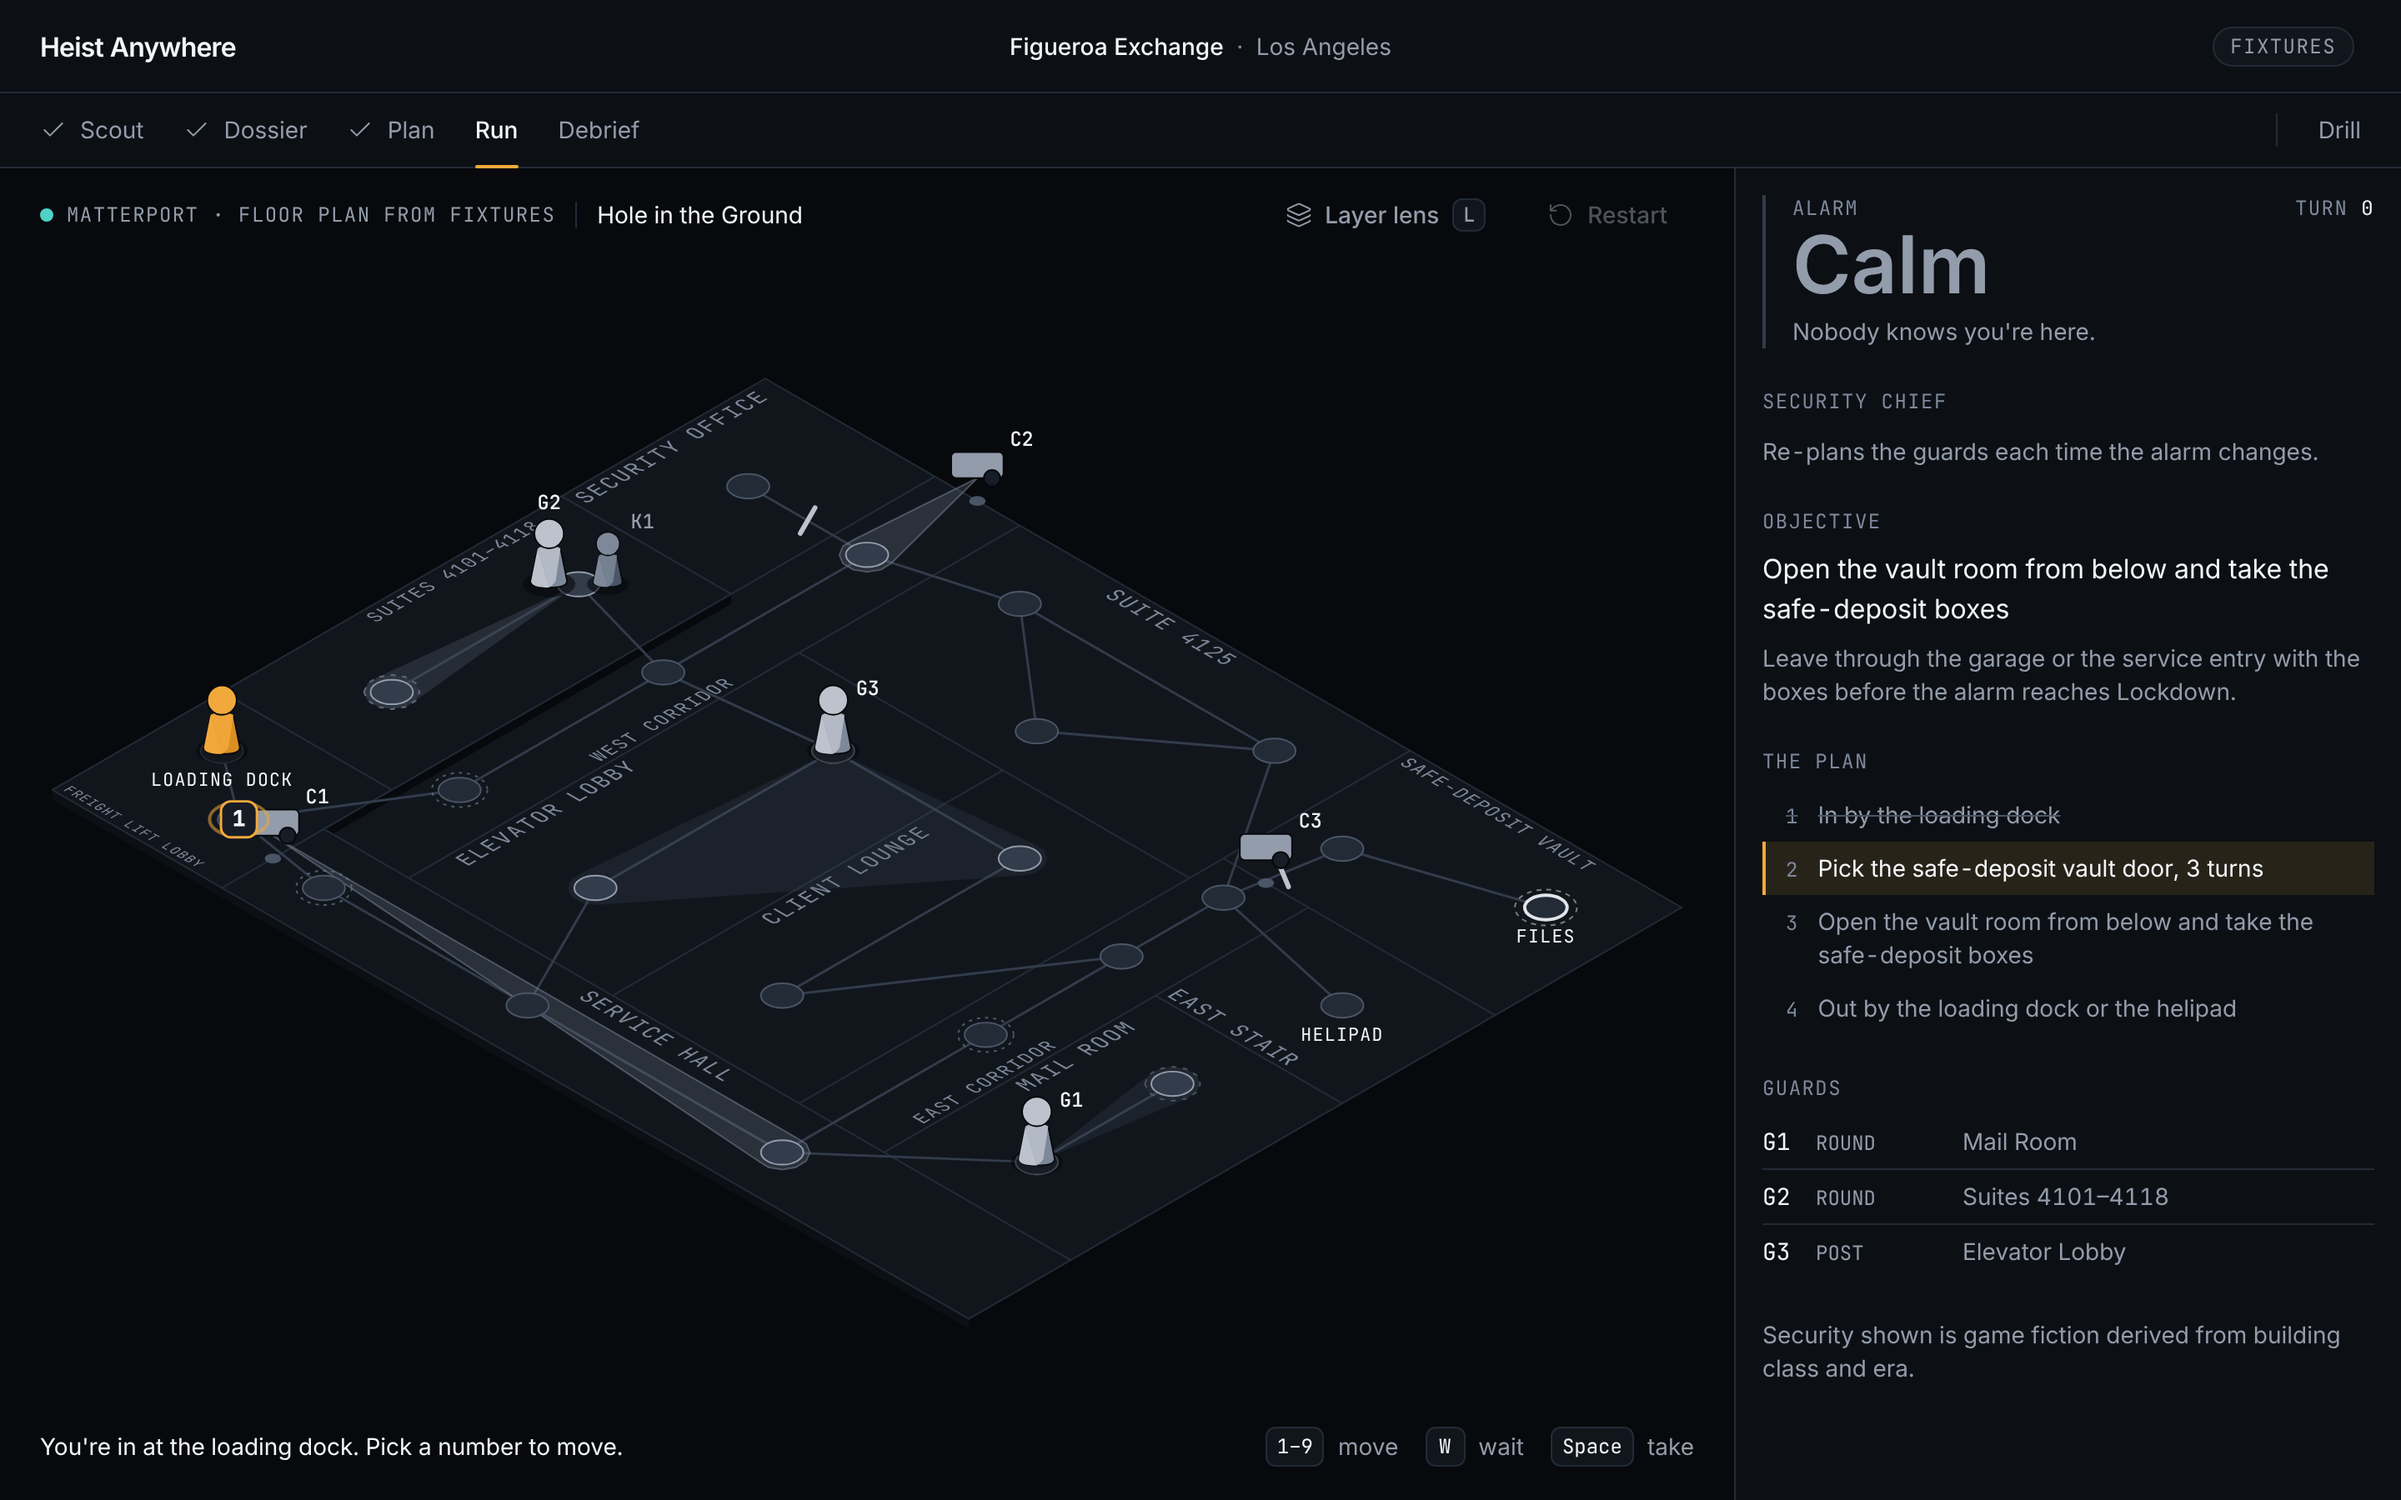
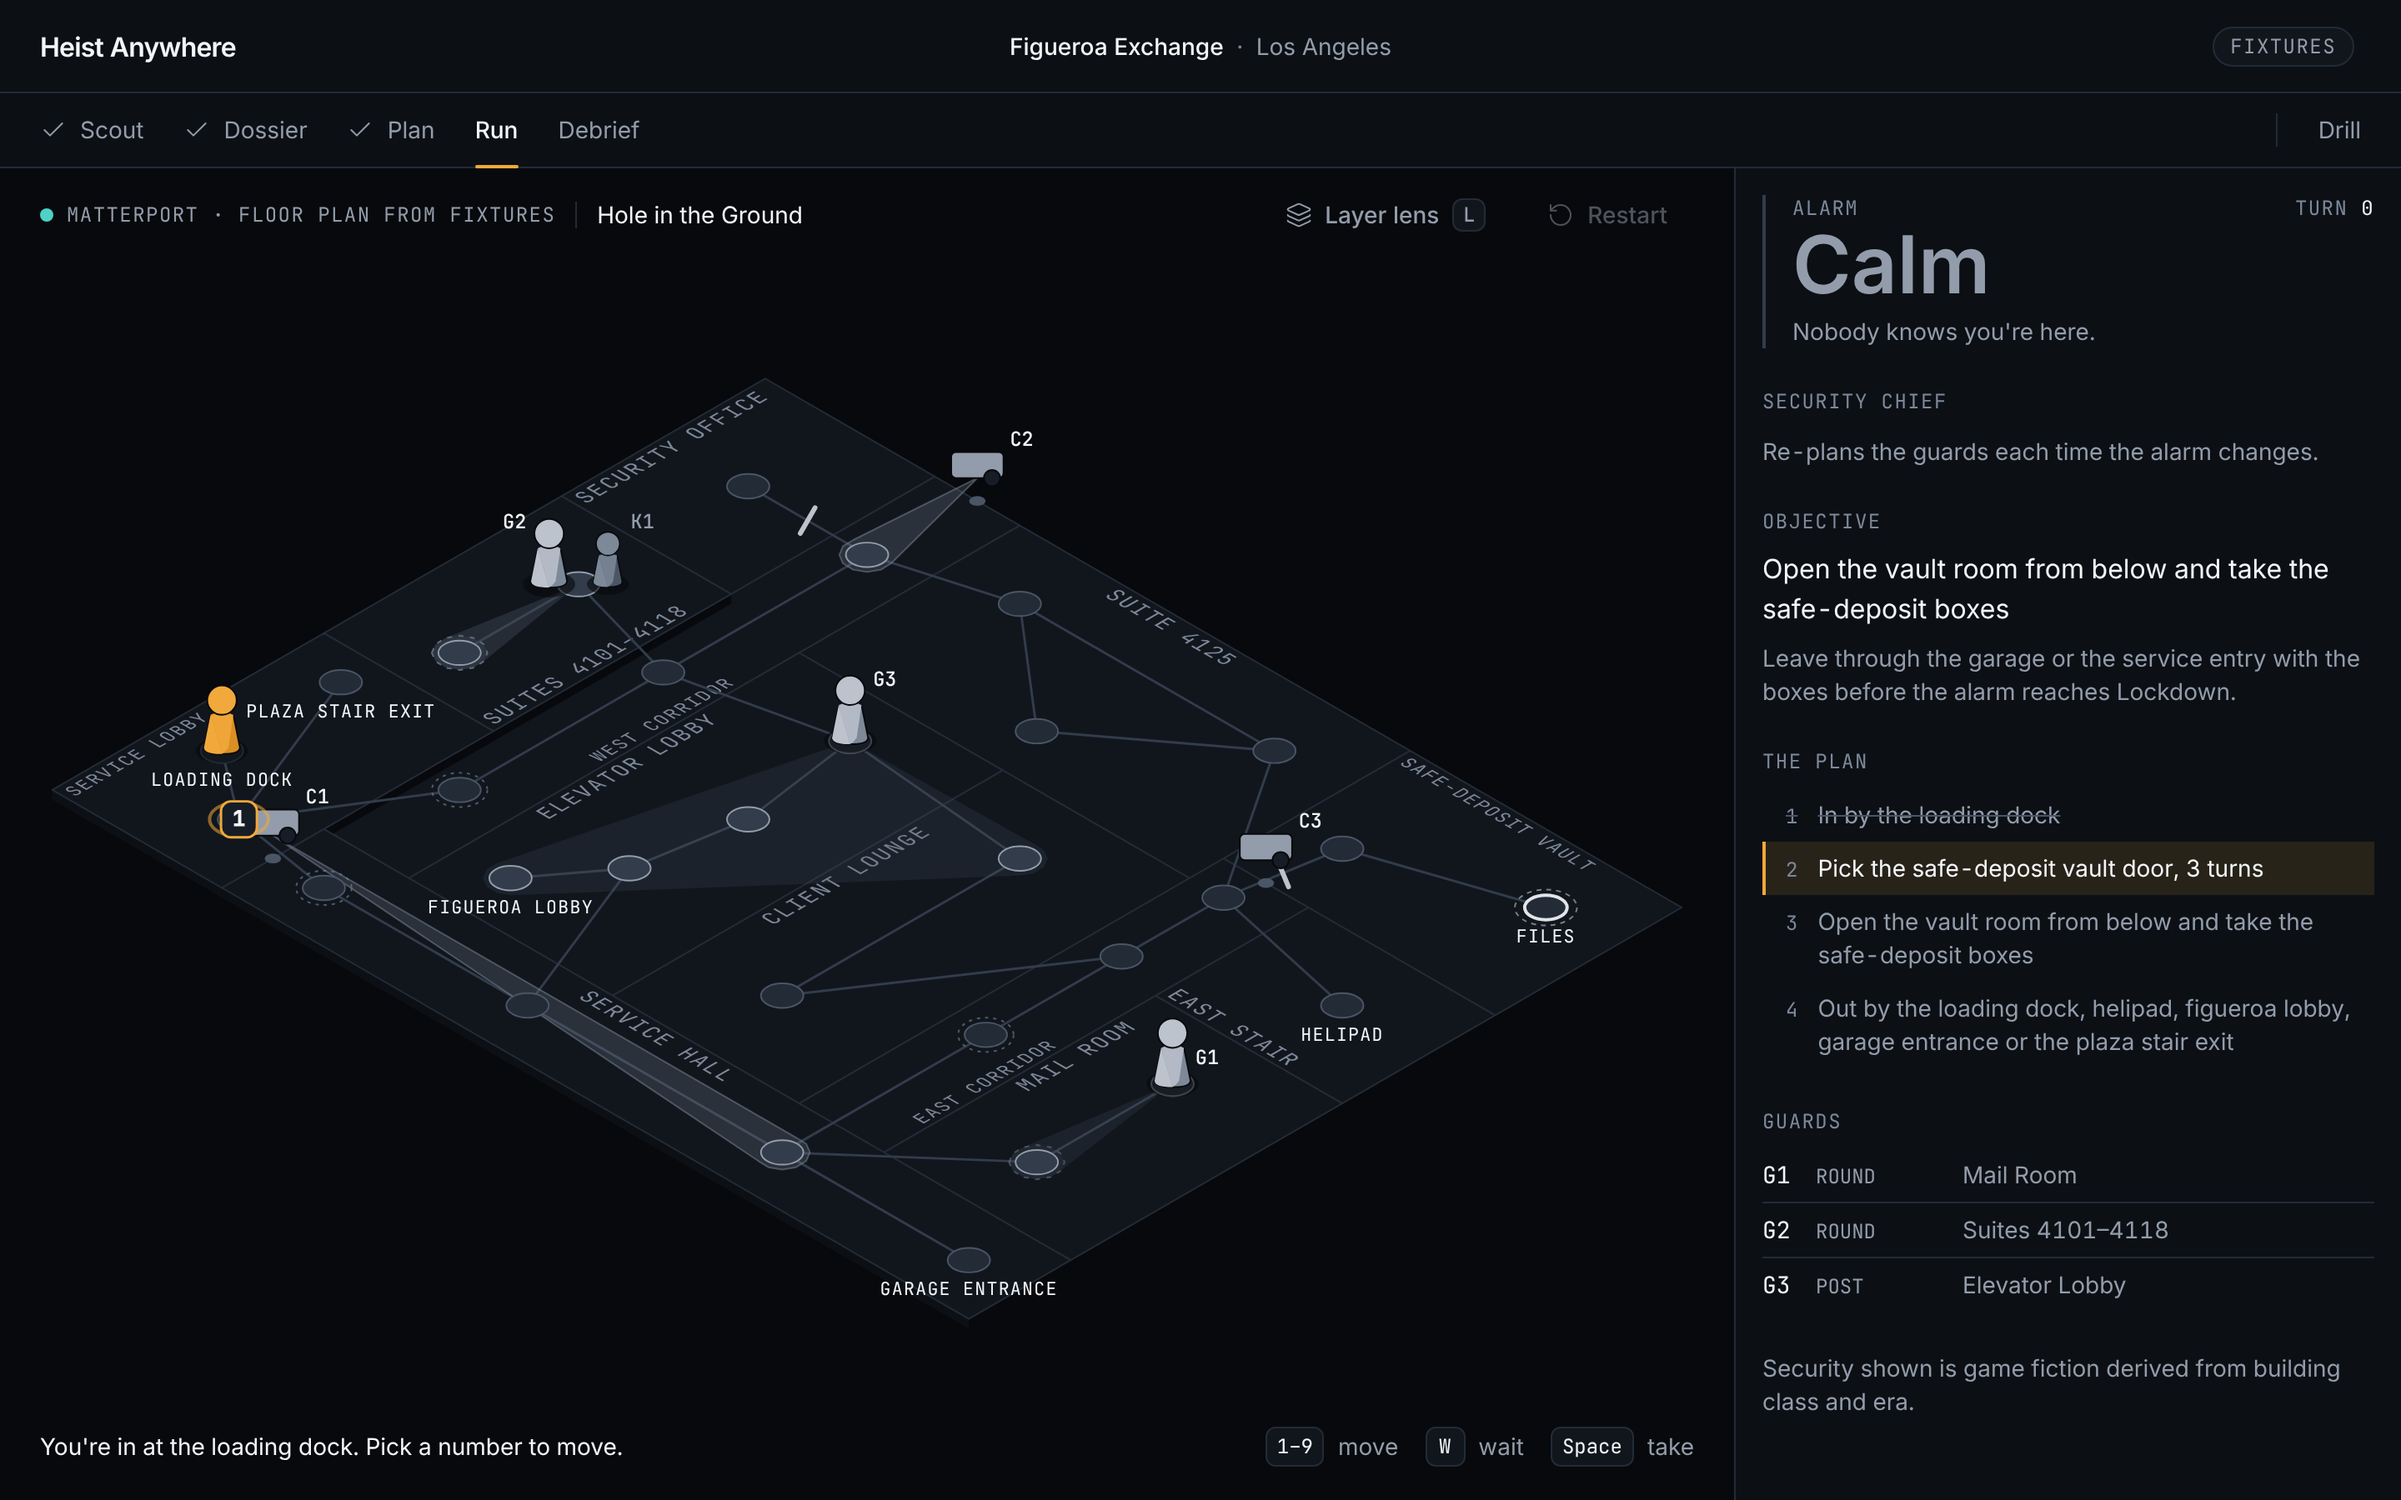
fix(fixtures): make F2 and F3 say only what can be played
night-desk becomes a take-and-exit prevent mission: get the prototype out
before the hired crew reaches it, by the service lift or the east stair.
F2's floor now carries the aerial's lobby, garage and plaza stair entries,
so every exit the mission, briefing and crew name is placed. Levels
regenerated. Tests hold the named exits to the placement and each
recorded rationale's positions to the Run seed's guards and cameras; the
smoke walk now also wins on both buildings.

diff --git a/src/level/la-fixtures.test.ts b/src/level/la-fixtures.test.ts
@@ -32,6 +32,10 @@ interface Case {
   objective: { node: string; door: string; room: string };
   /** What sees a player who walks straight to the objective from the start. */
   trip: { by: string; zone: string; to: string };
+  /** Each way in or out the mission's exit text or briefing names, and the aerial entry it is. */
+  exitNames: [string, string][];
+  /** Positions a recorded crew or Chief text states: the phrase, and the room its guard or camera is placed in. */
+  claims: { file: "crew" | "chief"; phrase: string; who: string; room: string }[];
   /** The recorded reply Plan shows clean, and the one it warns about. */
   clean: string;
   warns: { reply: string; text: RegExp };
@@ -47,6 +51,27 @@ const CASES: Case[] = [
     entries: [
       ["dock-W", "fl-car"],
       ["roof", "es-landing"],
+      ["lobby-E", "el-car"],
+      ["garage-N", "gl-car"],
+      ["exit-S", "ws-landing"],
+    ],
+    exitNames: [
+      ["the garage", "garage-N"],
+      ["the service entry", "exit-S"],
+      ["freight lift from the loading dock", "dock-W"],
+      ["garage shuttle lift", "garage-N"],
+      ["plaza stair", "exit-S"],
+      ["helipad", "roof"],
+    ],
+    claims: [
+      { file: "chief", phrase: "C2 has them in the west corridor", who: "C2", room: "west-corridor" },
+      { file: "chief", phrase: "G2, out of suites 4101 to 4118", who: "G2", room: "suites-4101-4118" },
+      { file: "chief", phrase: "G3, from the elevator lobby", who: "G3", room: "elevator-lobby" },
+      { file: "chief", phrase: "G1 leaves the mail room", who: "G1", room: "mail-room" },
+      { file: "crew", phrase: "Camera C2 covers the west corridor", who: "C2", room: "west-corridor" },
+      { file: "crew", phrase: "Camera C2 turns along the west corridor", who: "C2", room: "west-corridor" },
+      { file: "crew", phrase: "the service hall, and C1 turns along that hall", who: "C1", room: "service-hall" },
+      { file: "crew", phrase: "the service hall, where C1 turns", who: "C1", room: "service-hall" },
     ],
     objective: { node: "vt-boxes", door: "d-vault", room: "vault" },
     trip: { by: "C2", zone: "west-corridor", to: "alert" },
@@ -62,6 +87,20 @@ const CASES: Case[] = [
     entries: [
       ["dock-N", "sl-car"],
       ["roof", "es-landing"],
+    ],
+    exitNames: [
+      ["the service lift", "dock-N"],
+      ["the east stair", "roof"],
+      ["the loading dock", "dock-N"],
+    ],
+    claims: [
+      { file: "chief", phrase: "C1's analytics flagged someone in the north hall", who: "C1", room: "north-hall" },
+      { file: "chief", phrase: "G4, out of suite 2410", who: "G4", room: "suite-2410" },
+      { file: "chief", phrase: "G3, from the south hall", who: "G3", room: "south-hall" },
+      { file: "crew", phrase: "C1 and C2 watch it", who: "C1", room: "north-hall" },
+      { file: "crew", phrase: "C1 and C2 watch it", who: "C2", room: "north-hall" },
+      { file: "crew", phrase: "the north hall's C1 and C2", who: "C2", room: "north-hall" },
+      { file: "crew", phrase: "G3 walks that hall", who: "G3", room: "south-hall" },
     ],
     objective: { node: "lab-bench", door: "d-lab", room: "prototype-lab" },
     // IP cameras with analytics raise the alarm one step more: calm goes straight to lockdown.
@@ -181,6 +220,43 @@ describe.each(CASES)("$id on its fixture floor", (c) => {
         expect(zones.has(order.zoneId), `${t.id}: ${order.zoneId}`).toBe(true);
       }
       for (const zone of t.orders.lockZones) expect(zones.has(zone), `${t.id}: ${zone}`).toBe(true);
+    }
+  });
+
+  it("places every way in or out the mission's exit text, its briefing and the crew's replies name (#39 review)", () => {
+    const { mission } = manifest();
+    const text = `${mission.exitCondition} ${mission.briefing}`.toLowerCase();
+    const placedIds = new Set(placed.entries.map((e) => e.entryId));
+    for (const [phrase, entryId] of c.exitNames) {
+      expect(text, phrase).toContain(phrase.toLowerCase());
+      expect(placedIds.has(entryId), `${phrase} → ${entryId}`).toBe(true);
+    }
+    // An aerial entry the floor cannot place is never offered as a way out in the text.
+    for (const entry of manifest().entries.filter((e) => !placedIds.has(e.id))) {
+      expect(text, entry.id).not.toContain(entry.label.toLowerCase());
+      // By kind too ("the garage"), except where the word names a lift ("the service lift" is the dock's).
+      expect(mission.exitCondition.toLowerCase(), entry.id).not.toMatch(new RegExp(`\\b${entry.kind}\\b(?! lift)`));
+    }
+    // Every entry a recorded crew step goes to is a placed entry: no step is dropped.
+    const entryIds = new Set(manifest().entries.map((e) => e.id));
+    for (const r of c.crew.replies) {
+      for (const step of CrewPlan.parse(r.plan).steps) {
+        if (entryIds.has(step.zoneId)) expect(placedIds.has(step.zoneId), `${r.id}: ${step.zoneId}`).toBe(true);
+      }
+      expect(validatePlan(placed, reply(r.id)).dropped, r.id).toEqual([]);
+    }
+  });
+
+  it("puts each guard and camera a recorded crew or Chief text places where that text says (#39 review)", () => {
+    const texts = { crew: JSON.stringify(c.crew), chief: JSON.stringify(c.chief) };
+    const roomOf = new Map(placed.level.floor.nodes.map((n) => [n.id, n.roomId]));
+    for (const { file, phrase, who, room } of c.claims) {
+      expect(texts[file], phrase).toContain(phrase);
+      const guard = placed.guards.find((g) => g.id === who);
+      const camera = placed.cameras.find((cam) => cam.id === who);
+      const rooms = guard ? [guard.roomId] : (camera?.cover ?? []).map((id) => roomOf.get(id));
+      expect(rooms.length, who).toBeGreaterThan(0);
+      for (const r of rooms) expect(r, `${phrase}: ${who}`).toBe(room);
     }
   });
 });

diff --git a/tests/smoke/la-buildings.spec.ts b/tests/smoke/la-buildings.spec.ts
@@ -28,6 +28,12 @@ interface Walk {
   alarm: "alert" | "lockdown";
   status: string;
   chiefOrders: number;
+  /**
+   * The quiet route at the Run screen's seed, as src/level/la-fixtures.test.ts
+   * computes it with quietRoute: a node is a move, W a wait, PICK a pick of the
+   * locked door, and " " takes the objective.
+   */
+  quiet: string[];
 }
 
 const WALKS: Walk[] = [
@@ -49,6 +55,7 @@ const WALKS: Walk[] = [
     alarm: "alert",
     status: "C2 saw you in the West Corridor. The guards are converging.",
     chiefOrders: 3,
+    quiet: ["fl-hall", "W", "sh-w", "sh-mid", "sh-e", "ec-s", "ec-mid", "ec-n", "PICK", "PICK", "PICK", "vt-gate", "vt-boxes", " ", "vt-gate", "ec-n", "es-landing"],
   },
   {
     id: "F3",
@@ -68,6 +75,7 @@ const WALKS: Walk[] = [
     alarm: "lockdown",
     status: "C1 saw you in the North Hall. The guards are converging.",
     chiefOrders: 4,
+    quiet: ["sl-door", "s1-nw", "s1-mid", "s1-ne", "nh-e", "PICK", "PICK", "PICK", "PICK", "lab-door", "lab-bench", " ", "lab-door", "nh-e", "s1-ne", "s1-mid", "s1-nw", "sl-door", "sl-car"],
   },
 ];
 
@@ -178,5 +186,42 @@ for (const w of WALKS) {
     await expect(page.getByTestId("debrief-outcome")).toHaveAttribute("data-status", "caught");
     await expect(page.getByTestId("debrief-detail")).toContainText(`${w.warnedBy} saw you`);
     await shot(page, `${w.id}-debrief`);
+  });
+}
+
+for (const w of WALKS) {
+  test(`${w.id} × ${w.mission}: the quiet route plays by keys to a clean win, and the debrief says so`, async ({ page }) => {
+    // About 15 s on the gate's VM (one key and one outcome wait per turn); 60 s leaves room under load.
+    test.setTimeout(60_000);
+    await page.goto(`/b/${w.id}/run?m=${w.mission}`);
+    await expect(page.getByTestId("run-board")).toBeVisible();
+    await expect(page.getByTestId("player-piece")).toHaveAttribute("data-node", w.start);
+    for (const step of w.quiet) {
+      const turn = Number(await page.getByTestId("turn").textContent());
+      if (step === "W" || step === " ") {
+        await page.keyboard.press(step === "W" ? "w" : " ");
+      } else {
+        const selector = step === "PICK" ? '[data-testid="choice"][data-kind="pick"]' : `[data-testid="choice"][data-node="${step}"]`;
+        const key = await page.locator(selector).getAttribute("data-key");
+        expect(key, `${step} on turn ${turn}`).toMatch(/^[1-9]$/);
+        await page.keyboard.press(key!);
+      }
+      if (step === w.quiet[w.quiet.length - 1]) break;
+      await expect(page.getByTestId("turn")).toHaveText(String(turn + 1));
+      await expect(page.getByTestId("alarm-banner")).toHaveAttribute("data-state", "calm");
+    }
+    await expect(page.getByTestId("run-outcome")).toHaveAttribute("data-status", "won");
+    await expect(page.getByTestId("alarm-banner")).toHaveAttribute("data-state", "calm");
+    const log = await page.evaluate((key) => JSON.parse(localStorage.getItem(key) ?? "null"), `heist:run-log:${w.id}:${w.mission}`);
+    expect(log.status).toBe("won");
+    expect(log.alarmEvents).toEqual([]);
+    expect(log.turns).toHaveLength(w.quiet.length);
+    await page.getByRole("link", { name: "See the debrief" }).click();
+
+    await expect(page).toHaveURL(new RegExp(`/b/${w.id}/debrief\\?m=${w.mission}$`), { timeout: 15_000 });
+    await expect(page.getByTestId("debrief-outcome")).toHaveAttribute("data-status", "won");
+    await expect(page.getByTestId("debrief-grade")).toHaveText("S");
+    await expect(page.getByTestId("debrief-detail")).toHaveText(new RegExp(`in ${w.quiet.length} turns, never seen\\.$`));
+    await shot(page, `${w.id}-debrief-won`);
   });
 }

diff --git a/src/lib/levels.ts b/src/lib/levels.ts
@@ -1,9 +1,9 @@
 // Which buildings have a playable level yet (issue #10, spec review R1-M1).
 // Server only: it reads the repository's fixture floors from disk.
 //
-// A level needs a board, and a board is a floor: until the F2–F5 floor
-// tickets land, only F1 has one (fixtures/floors/F1.json). The map disables
-// every other pin and marks it "level in prep". A floor file added under
+// A level needs a board, and a board is a floor: F1, F2 and F3 have one
+// (fixtures/floors/); until the F4 and F5 floors land (#40), the map disables
+// their pins and marks them "level in prep". A floor file added under
 // fixtures/floors/ enables its building with no code change. When the cached
 // manifests arrive (data/levels/, the Level Builder ticket), this is the one
 // place to also require one.
